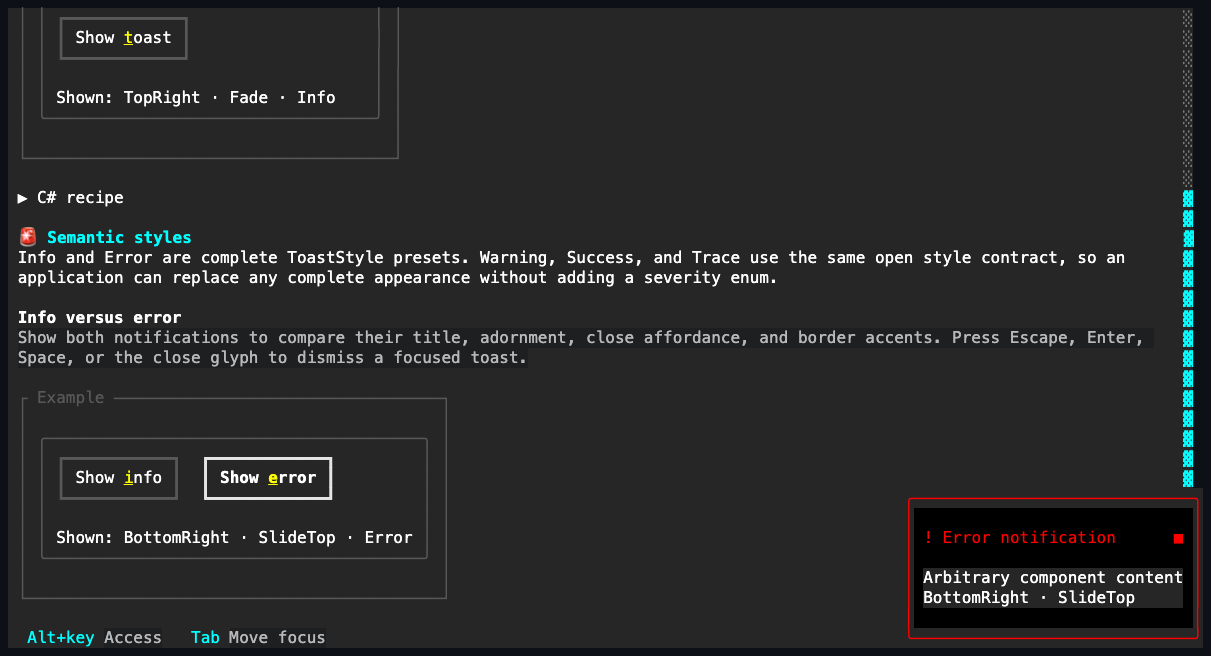
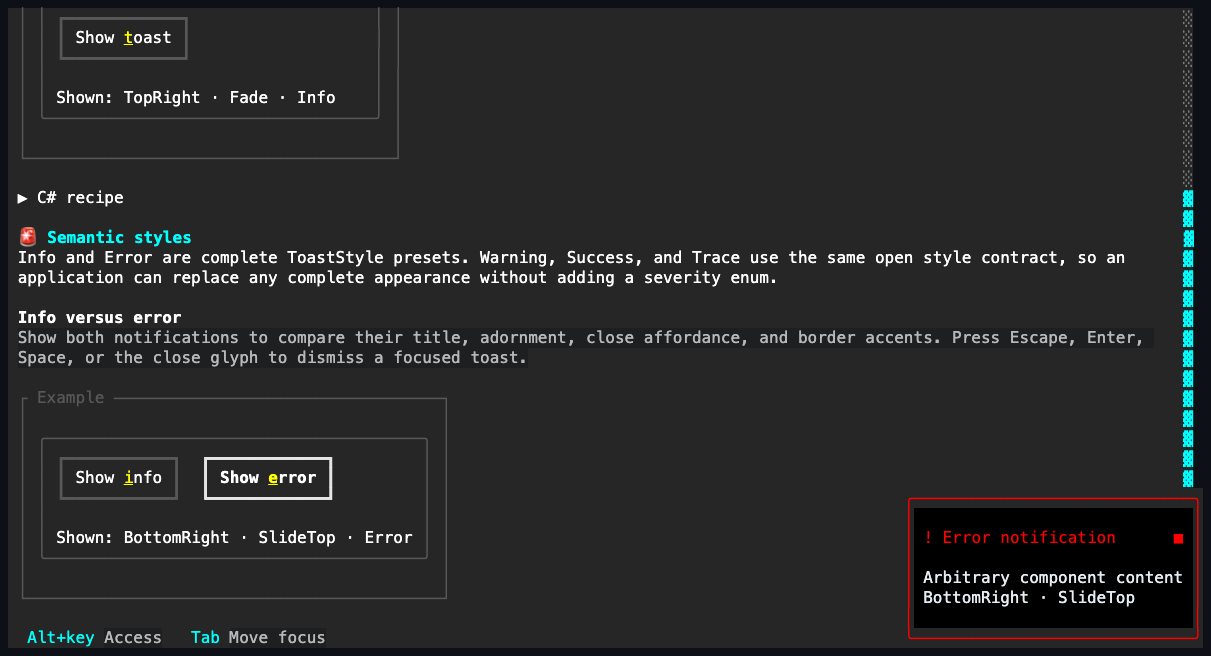
fix(showcase): refine focus and toast styling
Keep borderless expanders visually integrated with their surrounding surface
while retaining an explicit theme-owned focus cue. Make notification examples
compose over the toast face and group window-like surfaces together.

Changed region(s): [[0.7638, 0.8537, 0.9777, 0.9451]]

diff --git a/tests/SharpVision.Tests/Controls/Layout/ExpanderSurfaceTests.cs b/tests/SharpVision.Tests/Controls/Layout/ExpanderSurfaceTests.cs
@@ -36,7 +36,7 @@ public sealed class ExpanderSurfaceTests
 
                              """);
         expander.Content.Bounds.ShouldBe(new Rect(2, 1, 10, 3));
-        expander.GetResolvedAppearance(VisualState.Normal).BackgroundMode.ShouldBe(BackgroundMode.Opaque);
+        expander.GetResolvedAppearance(VisualState.Normal).BackgroundMode.ShouldBe(BackgroundMode.Transparent);
         surface.Cell(default).Style.Background.ShouldBe(ReferenceColors.Get(0));
     }
 
@@ -579,18 +579,14 @@ public sealed class ExpanderSurfaceTests
         surface.ShouldRender("▶ Details");
     }
 
-    /// <summary>Verifies a theme swap confined to the FocusedControl role still repaints the
-    /// focused header background. The focused header paints from the same state-cascaded
-    /// <c>ResolvedStyle</c> every other themed control uses, so the generic base
-    /// <c>GetThemeChangeImpact</c> - which re-resolves the active state's Face against both themes
-    /// and diffs the results - already detects a swap confined to one semantic color without any
-    /// Expander-specific override.</summary>
+    /// <summary>Verifies direct focus uses the focused-border accent without painting a focused
+    /// face behind either the header row or the indented content region.</summary>
     [Fact]
-    public async Task Surface_WhenThemeSwapChangesOnlyFocusedControl_RepaintsFocusedHeaderAsync()
+    public async Task Surface_WhenFocused_UsesAccentWithoutPaintingBackgroundAsync()
     {
         // Arrange
-        var themeA = WithColor(SemanticColor.FocusedControl, Color.Rgb(10, 20, 30));
-        var themeB = WithColor(SemanticColor.FocusedControl, Color.Rgb(200, 210, 220));
+        var focusedBorder = Color.Rgb(10, 200, 220);
+        var theme = WithColor(SemanticColor.FocusedBorder, focusedBorder);
         var expander = new Expander
         {
             HeaderText = "Details",
@@ -601,27 +597,26 @@ public sealed class ExpanderSurfaceTests
         await using var surface = await ComponentSurface.MountAsync(
             expander,
             new Size(12, 4),
-            themeA,
+            theme,
             TestContext.Current.CancellationToken);
-        await surface.Keyboard.PressAsync(Code.Tab);
-        surface.Cell(default).Style.Background.ShouldBe(TerminalPalette.Project(Color.Rgb(10, 20, 30), ColorDepth.Basic16));
+        var headerBackground = surface.Cell(default).Style.Background;
+        var contentBackground = surface.Cell(new Point(0, 1)).Style.Background;
 
         // Act
-        await surface.UpdateAsync(() => surface.Application.Theme = themeB, "swap FocusedControl-only theme");
+        await surface.Keyboard.PressAsync(Code.Tab);
 
         // Assert
-        surface.Cell(default).Style.Background.ShouldBe(TerminalPalette.Project(Color.Rgb(200, 210, 220), ColorDepth.Basic16));
+        surface.Cell(default).Style.Foreground.ShouldBe(TerminalPalette.Project(focusedBorder, ColorDepth.Basic16));
+        surface.Cell(new Point(2, 0)).Style.Foreground.ShouldBe(
+            TerminalPalette.Project(focusedBorder, ColorDepth.Basic16));
+        surface.Cell(default).Style.Background.ShouldBe(headerBackground);
+        surface.Cell(new Point(0, 1)).Style.Background.ShouldBe(contentBackground);
     }
 
-    /// <summary>Verifies a theme-authored <c>styles.input.focused.face</c> reaches the rendered
-    /// focused header cell rather than being silently discarded. The authored background and
-    /// attributes both depart from the raw <see cref="SemanticColor.FocusedControl"/> value and the
-    /// bold attribute every shipped theme happens to author for that role, so a render path that
-    /// hand-resolves <see cref="SemanticColor.FocusedControl"/> and forces
-    /// <see cref="TerminalAttributes.Bold"/> instead of consuming the state-cascaded resolved style
-    /// would diverge from what is asserted below.</summary>
+    /// <summary>Verifies a theme-authored focused face may still contribute text decorations while
+    /// its background remains transparent and the focused border owns the focus color.</summary>
     [Fact]
-    public async Task Render_WhenThemeAuthorsDistinctFocusedControlFace_UsesTheAuthoredStyleAsync()
+    public async Task Render_WhenThemeAuthorsDistinctFocusedControlFace_PreservesTransparentSurfaceAsync()
     {
         // Arrange
         var authoredBackground = Color.Rgb(220, 90, 30);
@@ -638,15 +633,17 @@ public sealed class ExpanderSurfaceTests
             new Size(12, 4),
             theme,
             TestContext.Current.CancellationToken);
+        var background = surface.Cell(default).Style.Background;
 
         // Act
         await surface.Keyboard.PressAsync(Code.Tab);
 
-        // Assert the rendered header cell reflects the authored face, not the raw semantic color
-        // or a forced bold attribute.
-        surface.Cell(default).Style.Background.ShouldBe(TerminalPalette.Project(authoredBackground, ColorDepth.Basic16));
+        // Assert
+        surface.Cell(default).Style.Background.ShouldBe(background);
         surface.Cell(default).Style.Background.ShouldNotBe(
-            TerminalPalette.Project(theme.ResolveColor(SemanticColor.FocusedControl), ColorDepth.Basic16));
+            TerminalPalette.Project(authoredBackground, ColorDepth.Basic16));
+        surface.Cell(default).Style.Foreground.ShouldBe(
+            TerminalPalette.Project(theme.ResolveColor(SemanticColor.FocusedBorder), ColorDepth.Basic16));
         surface.Cell(default).Style.Attributes.ShouldBe(TerminalAttributes.None);
     }
 

diff --git a/tests/SharpVision.Tests/Styling/ThemeTests.cs b/tests/SharpVision.Tests/Styling/ThemeTests.cs
@@ -349,19 +349,26 @@ public sealed class ThemeTests
     {
         var theme = ThemeCatalog.Dark;
 
-        AssertRebased(ExpanderStyle.Definition.Appearance!(ExpanderStyle.Definition.Resolve(null, theme), theme));
+        AssertRebased(
+            ExpanderStyle.Definition.Appearance!(ExpanderStyle.Definition.Resolve(null, theme), theme),
+            hasTransparentFace: true);
         AssertRebased(SliderStyle.Definition.Appearance!(SliderStyle.Definition.Resolve(null, theme), theme));
         AssertRebased(ScrollBarStyle.Definition.Appearance!(ScrollBarStyle.Definition.Resolve(null, theme), theme));
 
-        void AssertRebased(AppearanceStates states)
+        void AssertRebased(AppearanceStates states, bool hasTransparentFace = false)
         {
             var normal = states.Resolve(VisualState.Normal);
             var focused = states.Resolve(VisualState.Focused);
             var inputFocused = theme.Input.Resolve(VisualState.Focused);
+            var expectedBackground = hasTransparentFace ? (ControlColor) Color.Transparent : inputFocused.Face.Background;
 
-            normal.ShouldBe(theme.Control.Normal);
+            normal.Face.ShouldBe(hasTransparentFace
+                ? theme.Control.Normal.Face with { Background = Color.Transparent }
+                : theme.Control.Normal.Face);
+            normal.Border.ShouldBe(theme.Control.Normal.Border);
+            normal.Shadow.ShouldBe(theme.Control.Normal.Shadow);
             focused.Face.Foreground.ShouldBe(inputFocused.Face.Foreground);
-            focused.Face.Background.ShouldBe(inputFocused.Face.Background);
+            focused.Face.Background.ShouldBe(expectedBackground);
             focused.Face.Underline.ShouldBe(inputFocused.Face.Underline);
             focused.Face.UnderlineColor.ShouldBe(inputFocused.Face.UnderlineColor);
 

diff --git a/src/SharpVision/Controls/Layout/Expander.cs b/src/SharpVision/Controls/Layout/Expander.cs
@@ -213,18 +213,9 @@ public sealed class Expander: HeaderedContentControl, IStyled<ExpanderStyle>
         }
 
         var content = ContentBounds;
-        var s = ResolvedStyle;
-        var background = BackgroundMode.Transparent;
-
-        if (IsFocused)
-        {
-            background = BackgroundMode.Opaque;
-        }
-
-        if (IsFocused && content.Width > 0)
-        {
-            canvas.Clear(new Rect(content.X, content.Y, content.Width, _headerHeightCells), s);
-        }
+        var s = IsFocused
+            ? ResolvedStyle.WithForeground(ResolveColor(ActualBorder.Foreground))
+            : ResolvedStyle;
 
         var themed = IsExpanded ? ControlGlyphs.Disclosure.Expanded : ControlGlyphs.Disclosure.Collapsed;
         var style = ActualStyle;
@@ -233,7 +224,7 @@ public sealed class Expander: HeaderedContentControl, IStyled<ExpanderStyle>
             selected.Resolve(themed.Fallback, CellPolicy.AmbiguousWidth),
             new Point(content.X, content.Y),
             s,
-            background);
+            BackgroundMode.Transparent);
 
         // A Hidden or Collapsed header renders no caption at all, matching the disclosure-glyph-only
         // row a missing Header already draws and the zero width MeasureOverride already reports for
@@ -247,7 +238,7 @@ public sealed class Expander: HeaderedContentControl, IStyled<ExpanderStyle>
                 caption,
                 new Point(content.X + HeaderChromeWidth, content.Y),
                 s,
-                background,
+                BackgroundMode.Transparent,
                 CellPolicy.AmbiguousWidth,
                 UseMnemonic,
                 EffectiveIsEnabled ? Theme?.Hotkey ?? Color.Default : null);

diff --git a/examples/Showcase/Gallery.cs b/examples/Showcase/Gallery.cs
@@ -18,7 +18,6 @@ public sealed class Gallery: Screen
         "Display",
         "Charts",
         "Progress",
-        "Notifications",
         "Dialogs",
         "Windows"
     ];
@@ -51,7 +50,7 @@ public sealed class Gallery: Screen
         ("Layout", DockPane.Title, static () => new DockPane()),
         ("Layout", ExpanderPane.Title, static () => new ExpanderPane()),
         ("Dialogs", FilePickerPane.Title, static () => new FilePickerPane()),
-        ("Dialogs", MessageBoxPane.Title, static () => new MessageBoxPane()),
+        ("Windows", MessageBoxPane.Title, static () => new MessageBoxPane()),
         ("Display", FigletTextPane.Title, static () => new FigletTextPane()),
         ("Layout", GridPane.Title, static () => new GridPane()),
         ("Layout", GroupBoxPane.Title, static () => new GroupBoxPane()),
@@ -77,7 +76,7 @@ public sealed class Gallery: Screen
         ("Display", StatusBarPane.Title, static () => new StatusBarPane()),
         ("Input", SliderPane.Title, static () => new SliderPane()),
         ("Progress", SpinnerPane.Title, static () => new SpinnerPane()),
-        ("Notifications", ToastPane.Title, static () => new ToastPane()),
+        ("Windows", ToastPane.Title, static () => new ToastPane()),
         ("Layout", StackPane.Title, static () => new StackPane()),
         ("Collections", TabControlPane.Title, static () => new TabControlPane()),
         ("Collections", TablePane.Title, static () => new TablePane()),

diff --git a/src/SharpVision/Controls/Layout/ExpanderStyle.cs b/src/SharpVision/Controls/Layout/ExpanderStyle.cs
@@ -30,7 +30,7 @@ public sealed record ExpanderStyle: ControlStyle
 
     private static ExpanderStyle Complete(ControlStyle control, VisualState state, Theme theme) =>
         new(
-            control.Face,
+            control.Face with { Background = Color.Transparent },
             control.Border,
             control.Shadow,
             ControlGlyphs.Disclosure.Collapsed.Value,

diff --git a/examples/Showcase/Panes/ToastPane.cs b/examples/Showcase/Panes/ToastPane.cs
@@ -129,6 +129,7 @@ internal sealed class ToastPane: CompositeControlBase
             Content = new Stack
             {
                 Spacing = 0,
+                Face = style.Face with { Background = Color.Transparent },
                 Children =
                 {
                     new Text("Arbitrary component content"),

diff --git a/tests/SharpVision.Tests/Controls/Layout/ExpanderTests.cs b/tests/SharpVision.Tests/Controls/Layout/ExpanderTests.cs
@@ -15,7 +15,7 @@ public sealed class ExpanderTests
 
         // Assert
         expander.ActualBorder.Sides.ShouldBe(BorderSide.None);
-        expander.Face.Background.ShouldBe(SemanticColor.Control);
+        expander.Face.Background.ShouldBe(Color.Transparent);
         expander.ActualStyle.ContentIndent.ShouldBe(2);
     }
 

diff --git a/docs/controls/layout/expander.md b/docs/controls/layout/expander.md
@@ -11,27 +11,27 @@ collapsed disclosure glyph, followed by `Header` arranged into the remaining
 width.
 
 The Expander itself owns focus, hover, and press for the header row, and keeps
-the disclosure glyph and the focus-highlighted row background as its own chrome.
-A plain `Text` header — the `HeaderText` common case — is painted by the
-Expander with its own state-resolved style, so the caption carries the same
-hover, focus, and disabled cues as the glyph; any other header control is an
-ordinary owned control arranged beside the glyph that paints with its own
-resolved style. A `Header` set to `Visibility.Hidden` or `Visibility.Collapsed`
-paints no caption at all, leaving only the disclosure glyph — matching the
-ordinary `Visibility` gate every other owned control's own render pass already
-respects, and the zero header width `MeasureOverride` already reports once
-collapsed. Its pointer rectangle is the first non-empty row of `ContentBounds`,
-after any caller-supplied border and padding are deflated. The caller's content
-remains the one ordinary owned child.
+the disclosure glyph and focus-accented header foreground as its own chrome. A
+plain `Text` header — the `HeaderText` common case — is painted by the Expander
+with its own state-resolved style, so the caption carries the same hover, focus,
+and disabled cues as the glyph; any other header control is an ordinary owned
+control arranged beside the glyph that paints with its own resolved style. A
+`Header` set to `Visibility.Hidden` or `Visibility.Collapsed` paints no caption
+at all, leaving only the disclosure glyph — matching the ordinary `Visibility`
+gate every other owned control's own render pass already respects, and the zero
+header width `MeasureOverride` already reports once collapsed. Its pointer
+rectangle is the first non-empty row of `ContentBounds`, after any
+caller-supplied border and padding are deflated. The caller's content remains
+the one ordinary owned child.
 
 By default the control has no border and a transparent background; the
 disclosure glyph, the header, and the content indentation supply the structural
-signal. Hover and direct focus change only the foreground and border semantics
-of the header — they do not invent a frame or a fill. Caller content composes
-over the surrounding surface unless a descendant supplies an explicit
-background. Callers can opt into inherited frame, face, or shadow properties, in
-which case layout follows the shared
-[chrome contract](../../concepts/styling.md#shared-chrome).
+signal. Hover changes the inherited interactive foreground, while direct focus
+uses the focused-border accent for the disclosure glyph and a plain-text header.
+Neither state invents a frame or a fill. Caller content composes over the
+surrounding surface unless a descendant supplies an explicit background. Callers
+can opt into inherited frame, face, or shadow properties, in which case layout
+follows the shared [chrome contract](../../concepts/styling.md#shared-chrome).
 
 ## Inheritance
 

diff --git a/docs/controls/notifications/toast.md b/docs/controls/notifications/toast.md
@@ -72,7 +72,9 @@ and spacing fields. `Info`, `Error`, `Warning`, `Success`, and `Trace` are
 complete presets, while `Default` aliases `Info`. Severity remains an appearance
 choice rather than a closed behavior enum; applications may assign any complete
 custom `ToastStyle`. Every preset paints an opaque semantic popup background;
-custom styles control that fill through `Face.Background`.
+custom styles control that fill through `Face.Background`. Caller content keeps
+its own appearance, so layout-only wrappers that should visually belong to the
+Toast use a transparent background and inherit the Toast surface beneath them.
 
 A dismissible focused Toast handles Escape, Enter, and Space. The close glyph
 uses capture-aware pointer press and release semantics. Every route, including

diff --git a/docs/architecture/showcase.md b/docs/architecture/showcase.md
@@ -89,9 +89,8 @@ sidebar organizes its 61 entries by primary use:
 - Charts: HorizontalBarChart, VerticalBarChart, LineChart, AreaChart, and
   Sparkline.
 - Progress: ChaseIndicator, ProgressBar, and Spinner.
-- Notifications: Toast.
-- Dialogs: FilePicker and MessageBox.
-- Windows: Popup, ContextMenu, Tooltip, Flyout, and Window.
+- Dialogs: FilePicker.
+- Windows: MessageBox, Popup, ContextMenu, Tooltip, Flyout, Toast, and Window.
 
 Each purpose group starts expanded and can be collapsed through the standard
 `NavigationViewGroup` interaction. The first Concepts group owns cross-cutting
